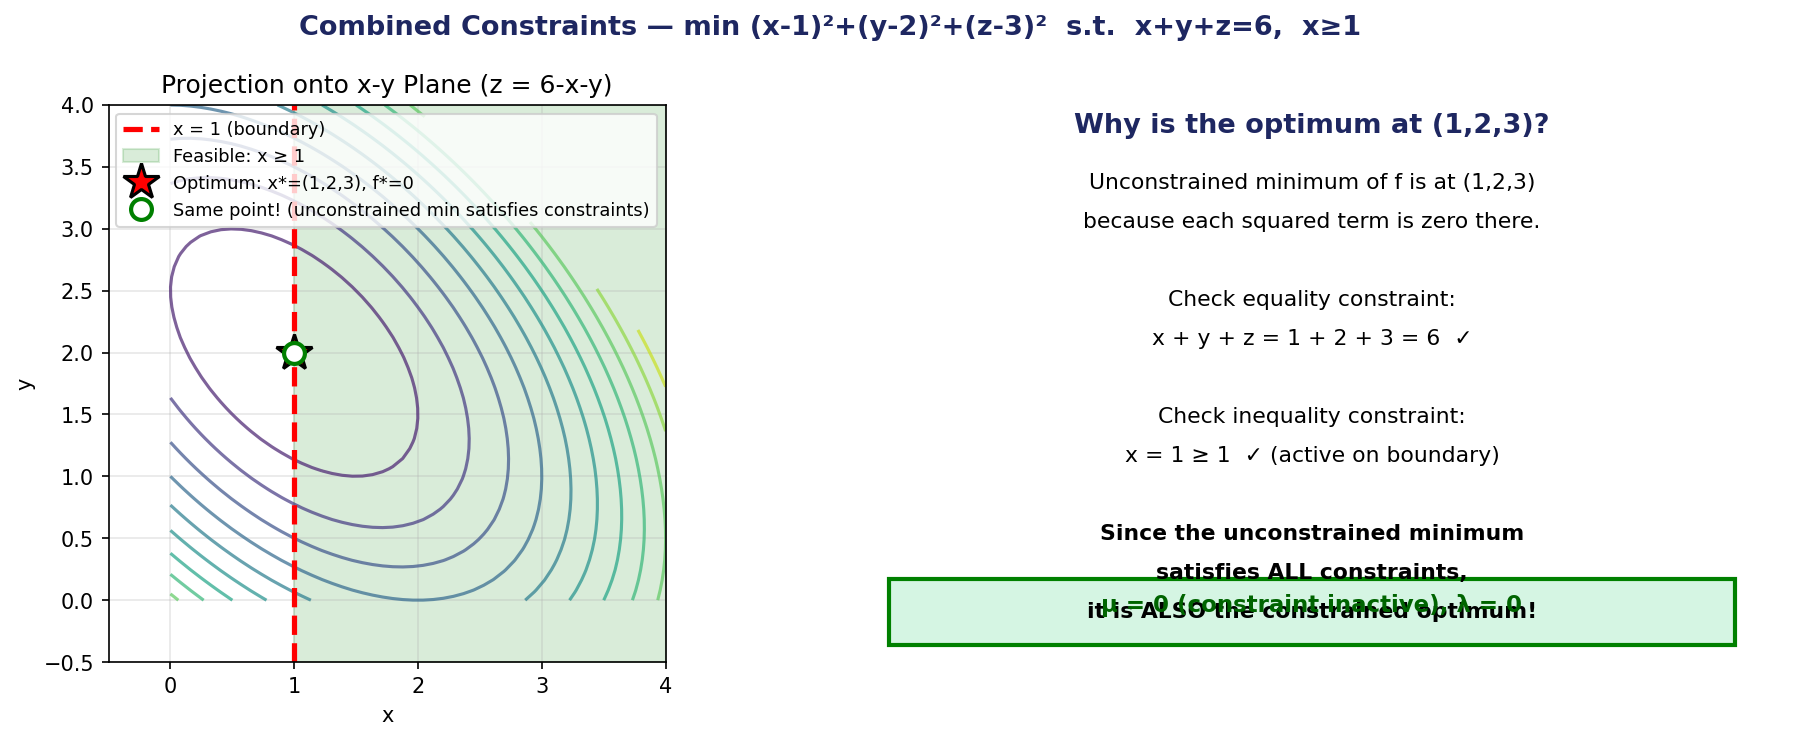
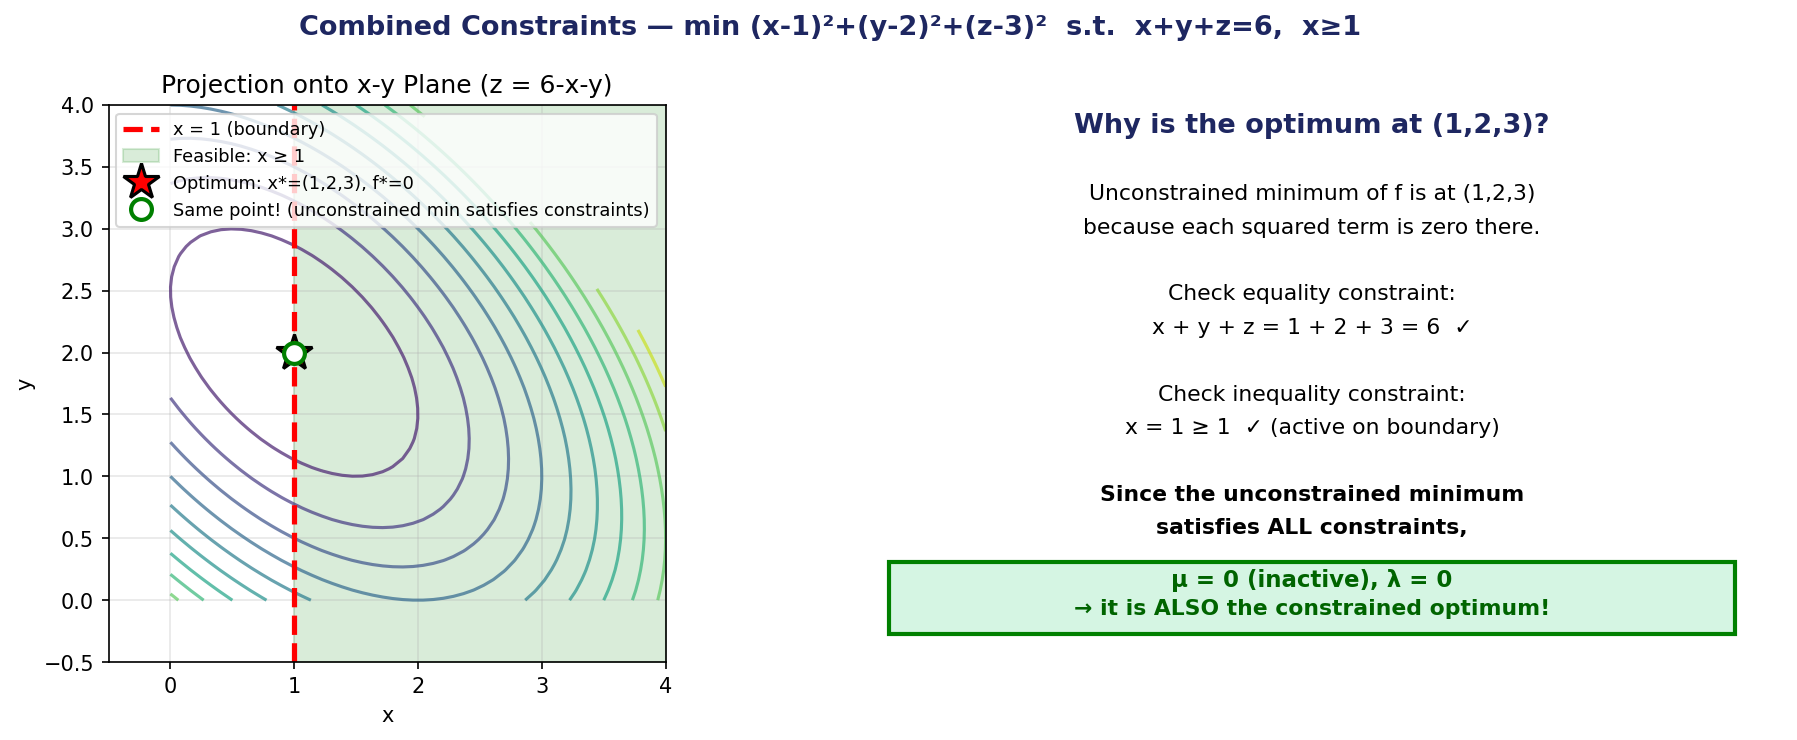
fixed plot overlaping

diff --git a/optimization_code.py b/optimization_code.py
@@ -373,12 +373,11 @@ def plot_kkt():
 
 
 def plot_combined():
-    """Plot Combined Constraints visualization."""
     fig, (ax1, ax2) = plt.subplots(1, 2, figsize=(13, 5))
     fig.suptitle('Combined Constraints — min (x-1)²+(y-2)²+(z-3)²  s.t.  x+y+z=6,  x≥1',
                  fontsize=13, fontweight='bold', color='#1E2761')
 
-    # Left: 2D projection
+    # Left panel (unchanged)
     ax1.set_xlim(-0.5, 4); ax1.set_ylim(-0.5, 4); ax1.set_aspect('equal')
     x_pts = np.linspace(0, 4, 50)
     y_pts = np.linspace(0, 4, 50)
@@ -387,46 +386,50 @@ def plot_combined():
     F_plane = (X_pts-1)**2 + (Y_pts-2)**2 + (Z_pts-3)**2
     valid = Z_pts >= 0
     ax1.contour(X_pts, Y_pts, np.where(valid, F_plane, np.nan), levels=15, cmap='viridis', alpha=0.7)
-
+    
     ax1.axvline(x=1, color='red', linewidth=2.5, linestyle='--', label='x = 1 (boundary)')
     ax1.fill_betweenx([-0.5, 4], 1, 4, alpha=0.15, color='green', label='Feasible: x ≥ 1')
     ax1.plot(1, 2, 'r*', markersize=18, markeredgecolor='black', markeredgewidth=1.5,
              label='Optimum: x*=(1,2,3), f*=0')
     ax1.plot(1, 2, 'go', markersize=10, markerfacecolor='white', markeredgewidth=2,
              label='Same point! (unconstrained min satisfies constraints)')
-
+    
     ax1.set_xlabel('x'); ax1.set_ylabel('y')
     ax1.set_title('Projection onto x-y Plane (z = 6-x-y)')
     ax1.legend(fontsize=8.5, loc='upper right')
     ax1.grid(True, alpha=0.3)
 
-    # Right: Explanation
+    # Right panel (FIXED)
     ax2.axis('off'); ax2.set_xlim(0, 10); ax2.set_ylim(0, 10)
     ax2.text(5, 9.5, 'Why is the optimum at (1,2,3)?', fontsize=13, fontweight='bold',
              ha='center', color='#1E2761')
 
+    # Tighter spacing to make room for the box at the bottom
     explanations = [
-        (8.5, 'Unconstrained minimum of f is at (1,2,3)'),
-        (7.8, 'because each squared term is zero there.'),
+        (8.3, 'Unconstrained minimum of f is at (1,2,3)'),
+        (7.7, 'because each squared term is zero there.'),
         (7.1, ''),
-        (6.4, 'Check equality constraint:'),
-        (5.7, 'x + y + z = 1 + 2 + 3 = 6  ✓'),
-        (5.0, ''),
-        (4.3, 'Check inequality constraint:'),
-        (3.6, 'x = 1 ≥ 1  ✓ (active on boundary)'),
-        (2.9, ''),
-        (2.2, 'Since the unconstrained minimum'),
-        (1.5, 'satisfies ALL constraints,'),
-        (0.8, 'it is ALSO the constrained optimum!'),
+        (6.5, 'Check equality constraint:'),
+        (5.9, 'x + y + z = 1 + 2 + 3 = 6  ✓'),
+        (5.3, ''),
+        (4.7, 'Check inequality constraint:'),
+        (4.1, 'x = 1 ≥ 1  ✓ (active on boundary)'),
+        (3.5, ''),
+        (2.9, 'Since the unconstrained minimum'),
+        (2.3, 'satisfies ALL constraints,'),
     ]
     for y, text in explanations:
-        bold = 'unconstrained' in text or 'satisfies' in text or 'ALSO' in text
-        ax2.text(5, y, text, fontsize=10.5, ha='center', fontweight='bold' if bold else 'normal')
+        bold = 'unconstrained' in text or 'satisfies' in text
+        ax2.text(5, y, text, fontsize=10.5, ha='center', 
+                 fontweight='bold' if bold else 'normal')
 
-    rect = plt.Rectangle((0.5, 0.3), 9, 1.2, fill=True, facecolor='#D5F5E3',
+    # FIX: Box at y=0.5 (fully inside visible range y=0 to y=10)
+    rect = plt.Rectangle((0.5, 0.5), 9, 1.3, fill=True, facecolor='#D5F5E3',
                           edgecolor='green', linewidth=2)
     ax2.add_patch(rect)
-    ax2.text(5, 0.9, 'μ = 0 (constraint inactive), λ = 0', fontsize=11, 
+    ax2.text(5, 1.35, 'μ = 0 (inactive), λ = 0', fontsize=11, 
+             fontweight='bold', ha='center', color='darkgreen')
+    ax2.text(5, 0.85, '→ it is ALSO the constrained optimum!', fontsize=10.5,
              fontweight='bold', ha='center', color='darkgreen')
 
     plt.tight_layout()
